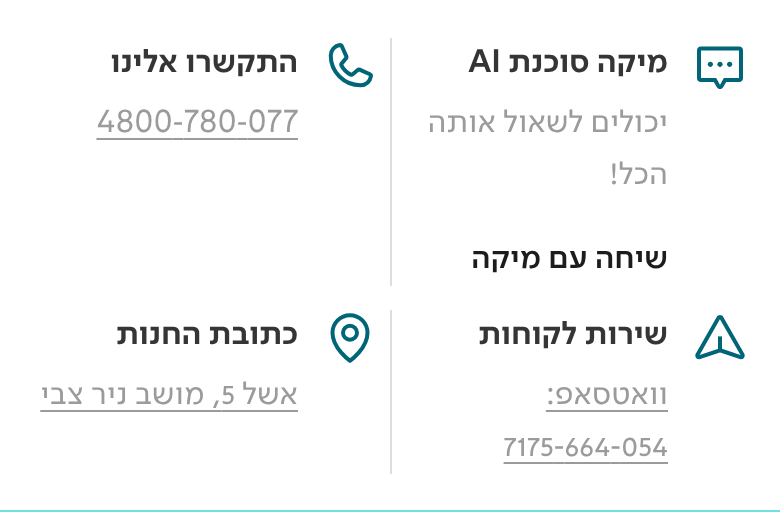
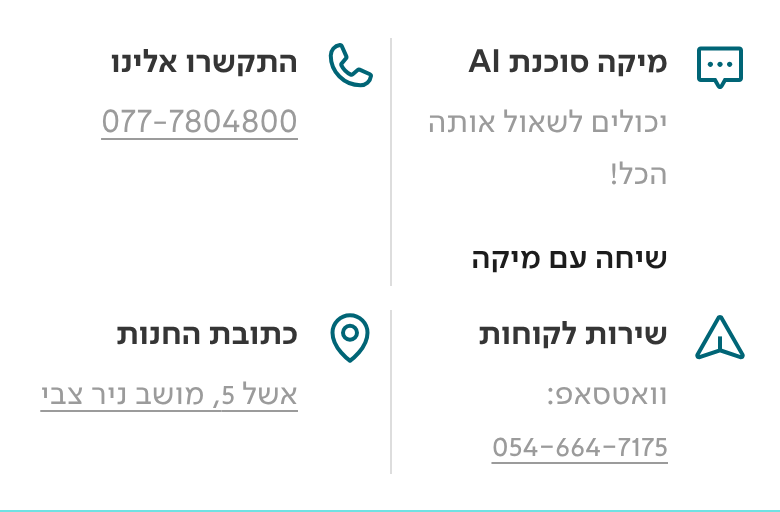
Contact row: numbers on one line, left to right
Claude-Session: https://claude.ai/code/session_01QfBjERy37Re1AYHdyrQKXr

Changed region(s): [[0.1231, 0.1875, 0.4, 0.2812], [0.6154, 0.8438, 0.8615, 0.9062], [0.7077, 0.7812, 0.8615, 0.8125]]

diff --git a/assets/mk-custom.css b/assets/mk-custom.css
@@ -953,7 +953,10 @@ a.mk-instagram__link:hover .mk-instagram__title { text-decoration: underline; te
 .header-section:has(.menu-drawer[open]),
 .cart-drawer[open],
 #CartDrawer[open] { z-index: 2147483000; }
-/* C2. Contact row: the numbers use non-breaking hyphens in the text, no CSS needed */
+/* C2. Contact row: phone and WhatsApp numbers on one line, read left to right (non-breaking
+   hyphens reversed the digits in RTL) */
+.multicolumn-icon .multicolumn-card__text a[href^="tel:"],
+.multicolumn-icon .multicolumn-card__text a[href*="wa.me"] { white-space: nowrap; direction: ltr; unicode-bidi: isolate; }
 /* B2. Toys mega menu: 5 columns, "ספרים" (6th group) under "משחקים לכל מטרה" (5th column).
    Hyper fills columns by index modulo, so the columns become transparent and the groups are
    placed on the grid themselves. The first four groups span both rows to keep their dividers. */

diff --git a/docs/progress.md b/docs/progress.md
@@ -620,7 +620,7 @@ continues in a NEW session. Starting point for that session:
   `.header-section:has(.menu-drawer[open])` and the cart drawer get z-index 2147483000 (tested with
   a fake z 999999 widget). Dropdown heading without the line. Mobile menu footer: blue #312E7D
   band, login row grey #E9E9E9 (1.2rem). Contact row: 2 per row on mobile, phone / WhatsApp /
-  address are links in the text (tel:, wa.me, Waze) with non-breaking hyphens, buttons removed
+  address are links in the text (tel:, wa.me, Waze; numbers LTR + nowrap, WhatsApp number on its own line), buttons removed
   (the "מיקה" chat button kept). Circle arrows offset 6.2rem. Product rows on mobile read "הכל"
   (CSS swap, desktop keeps the label). Age tiles: "הכל ‹" link without underline, new setting
   `show_labels` (photo-only tiles, label kept for screen readers). Instagram handle visually hidden
